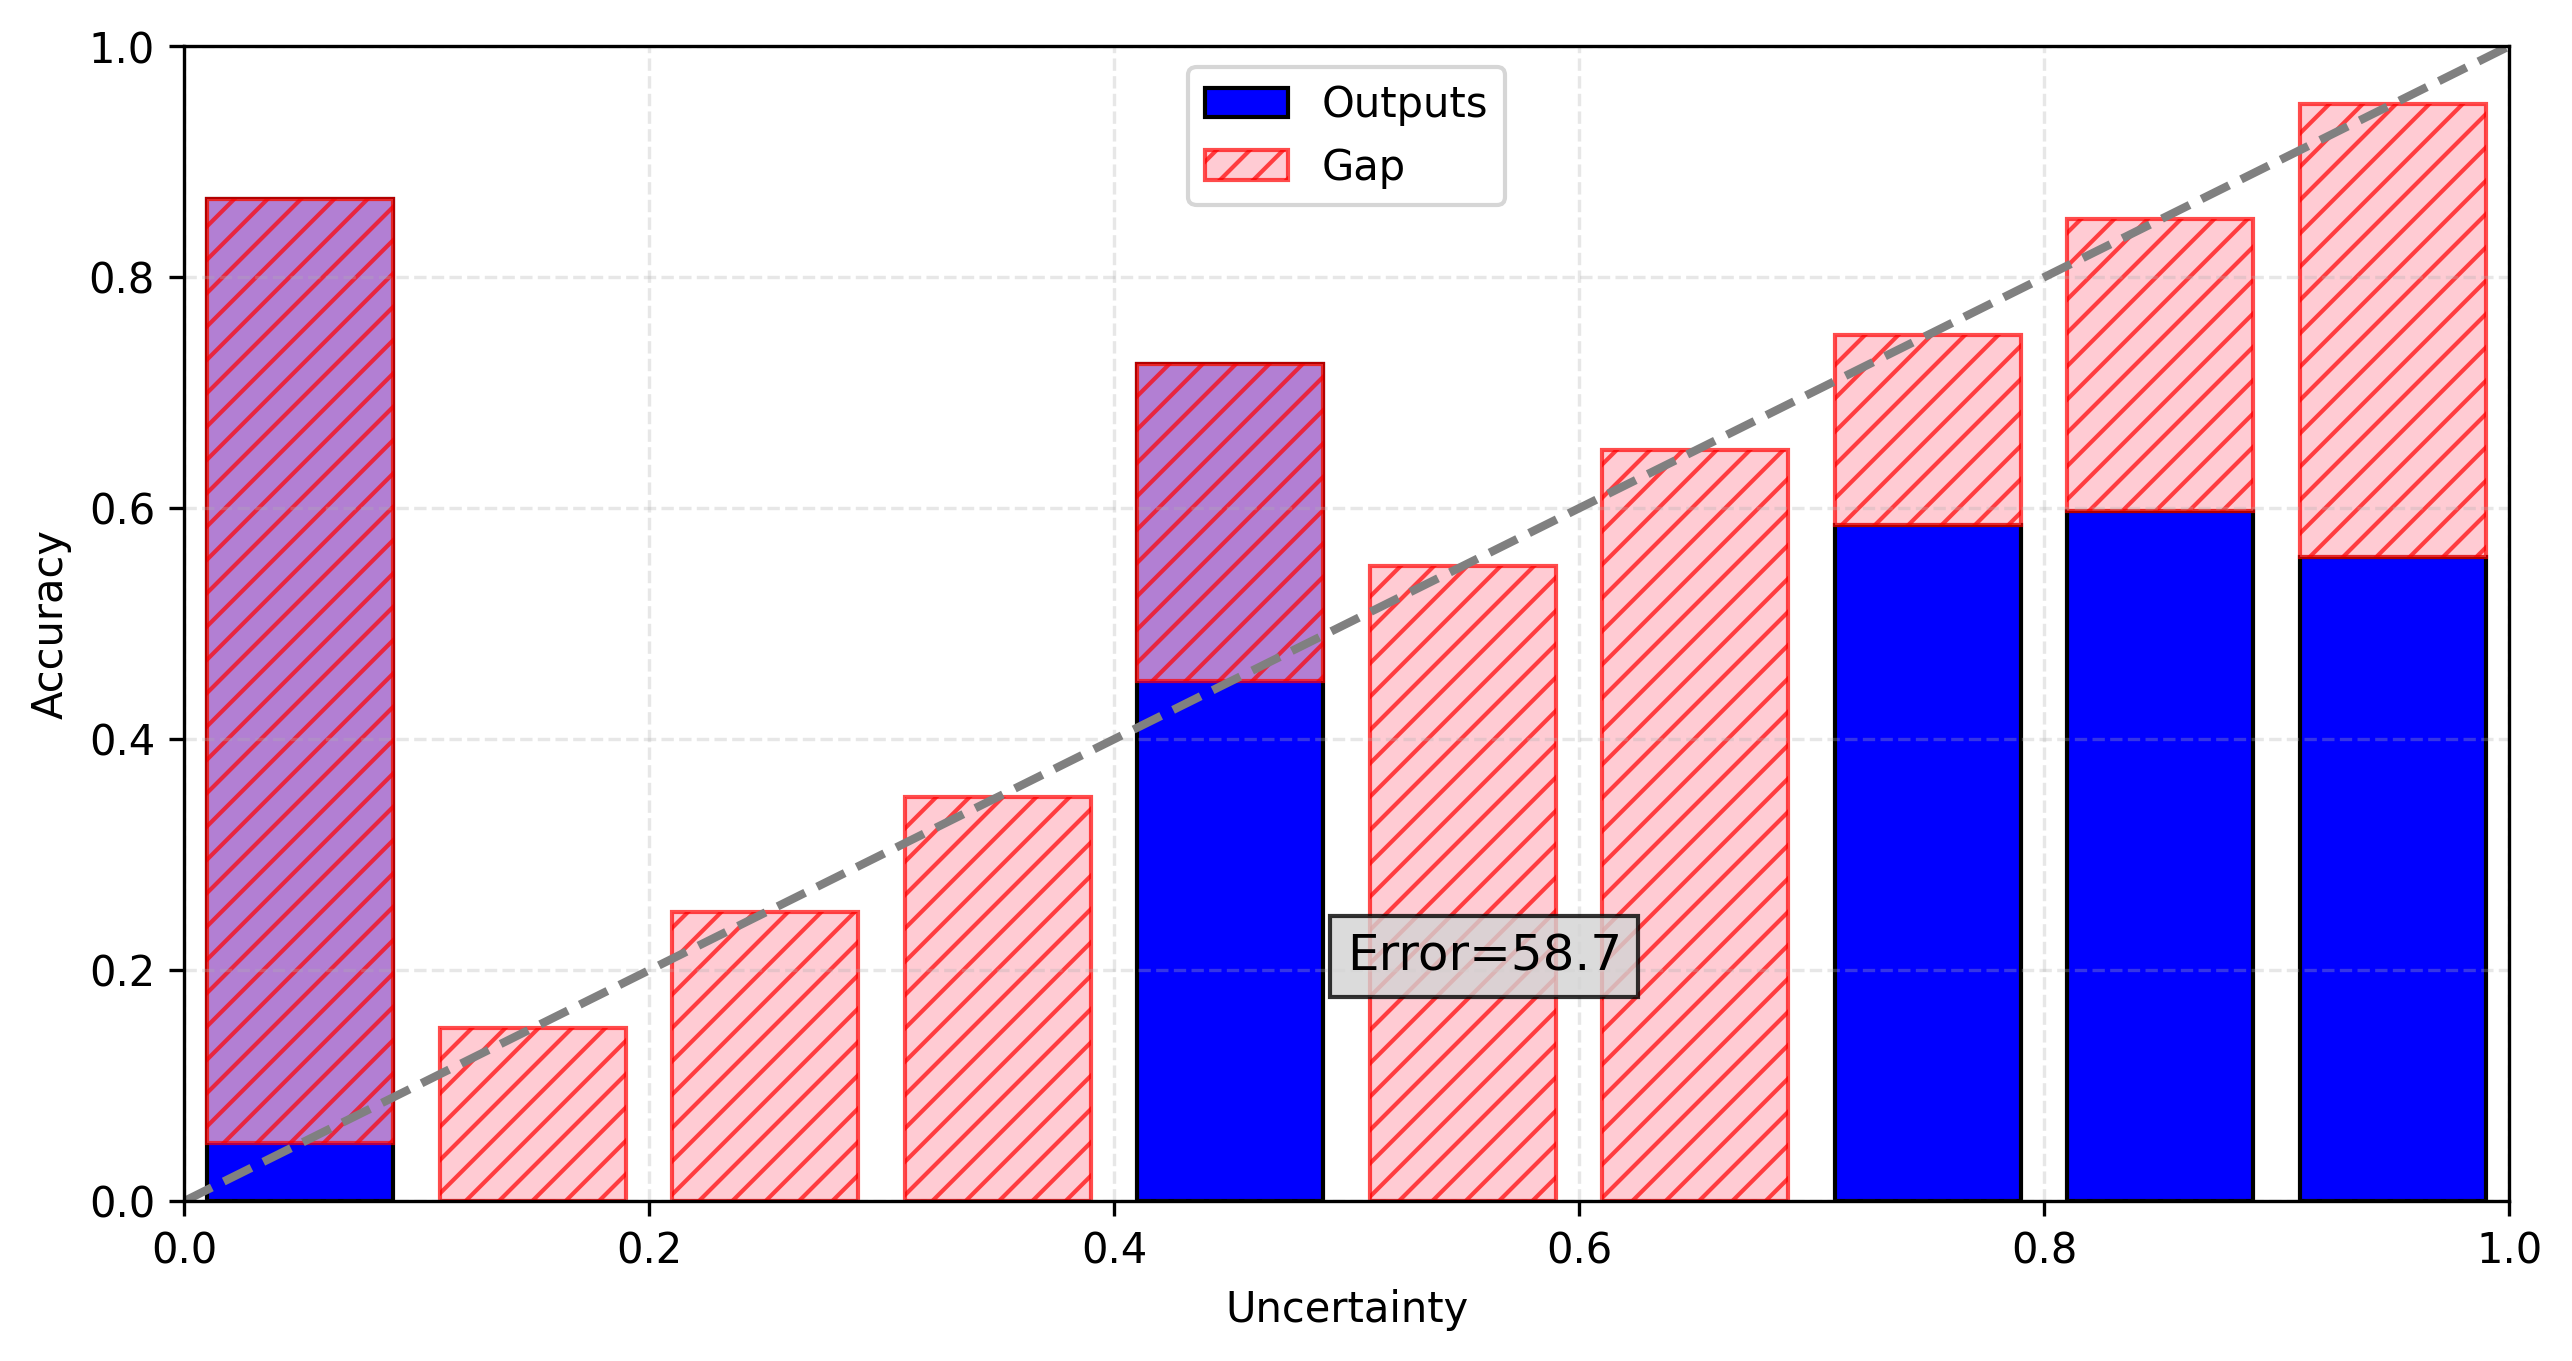
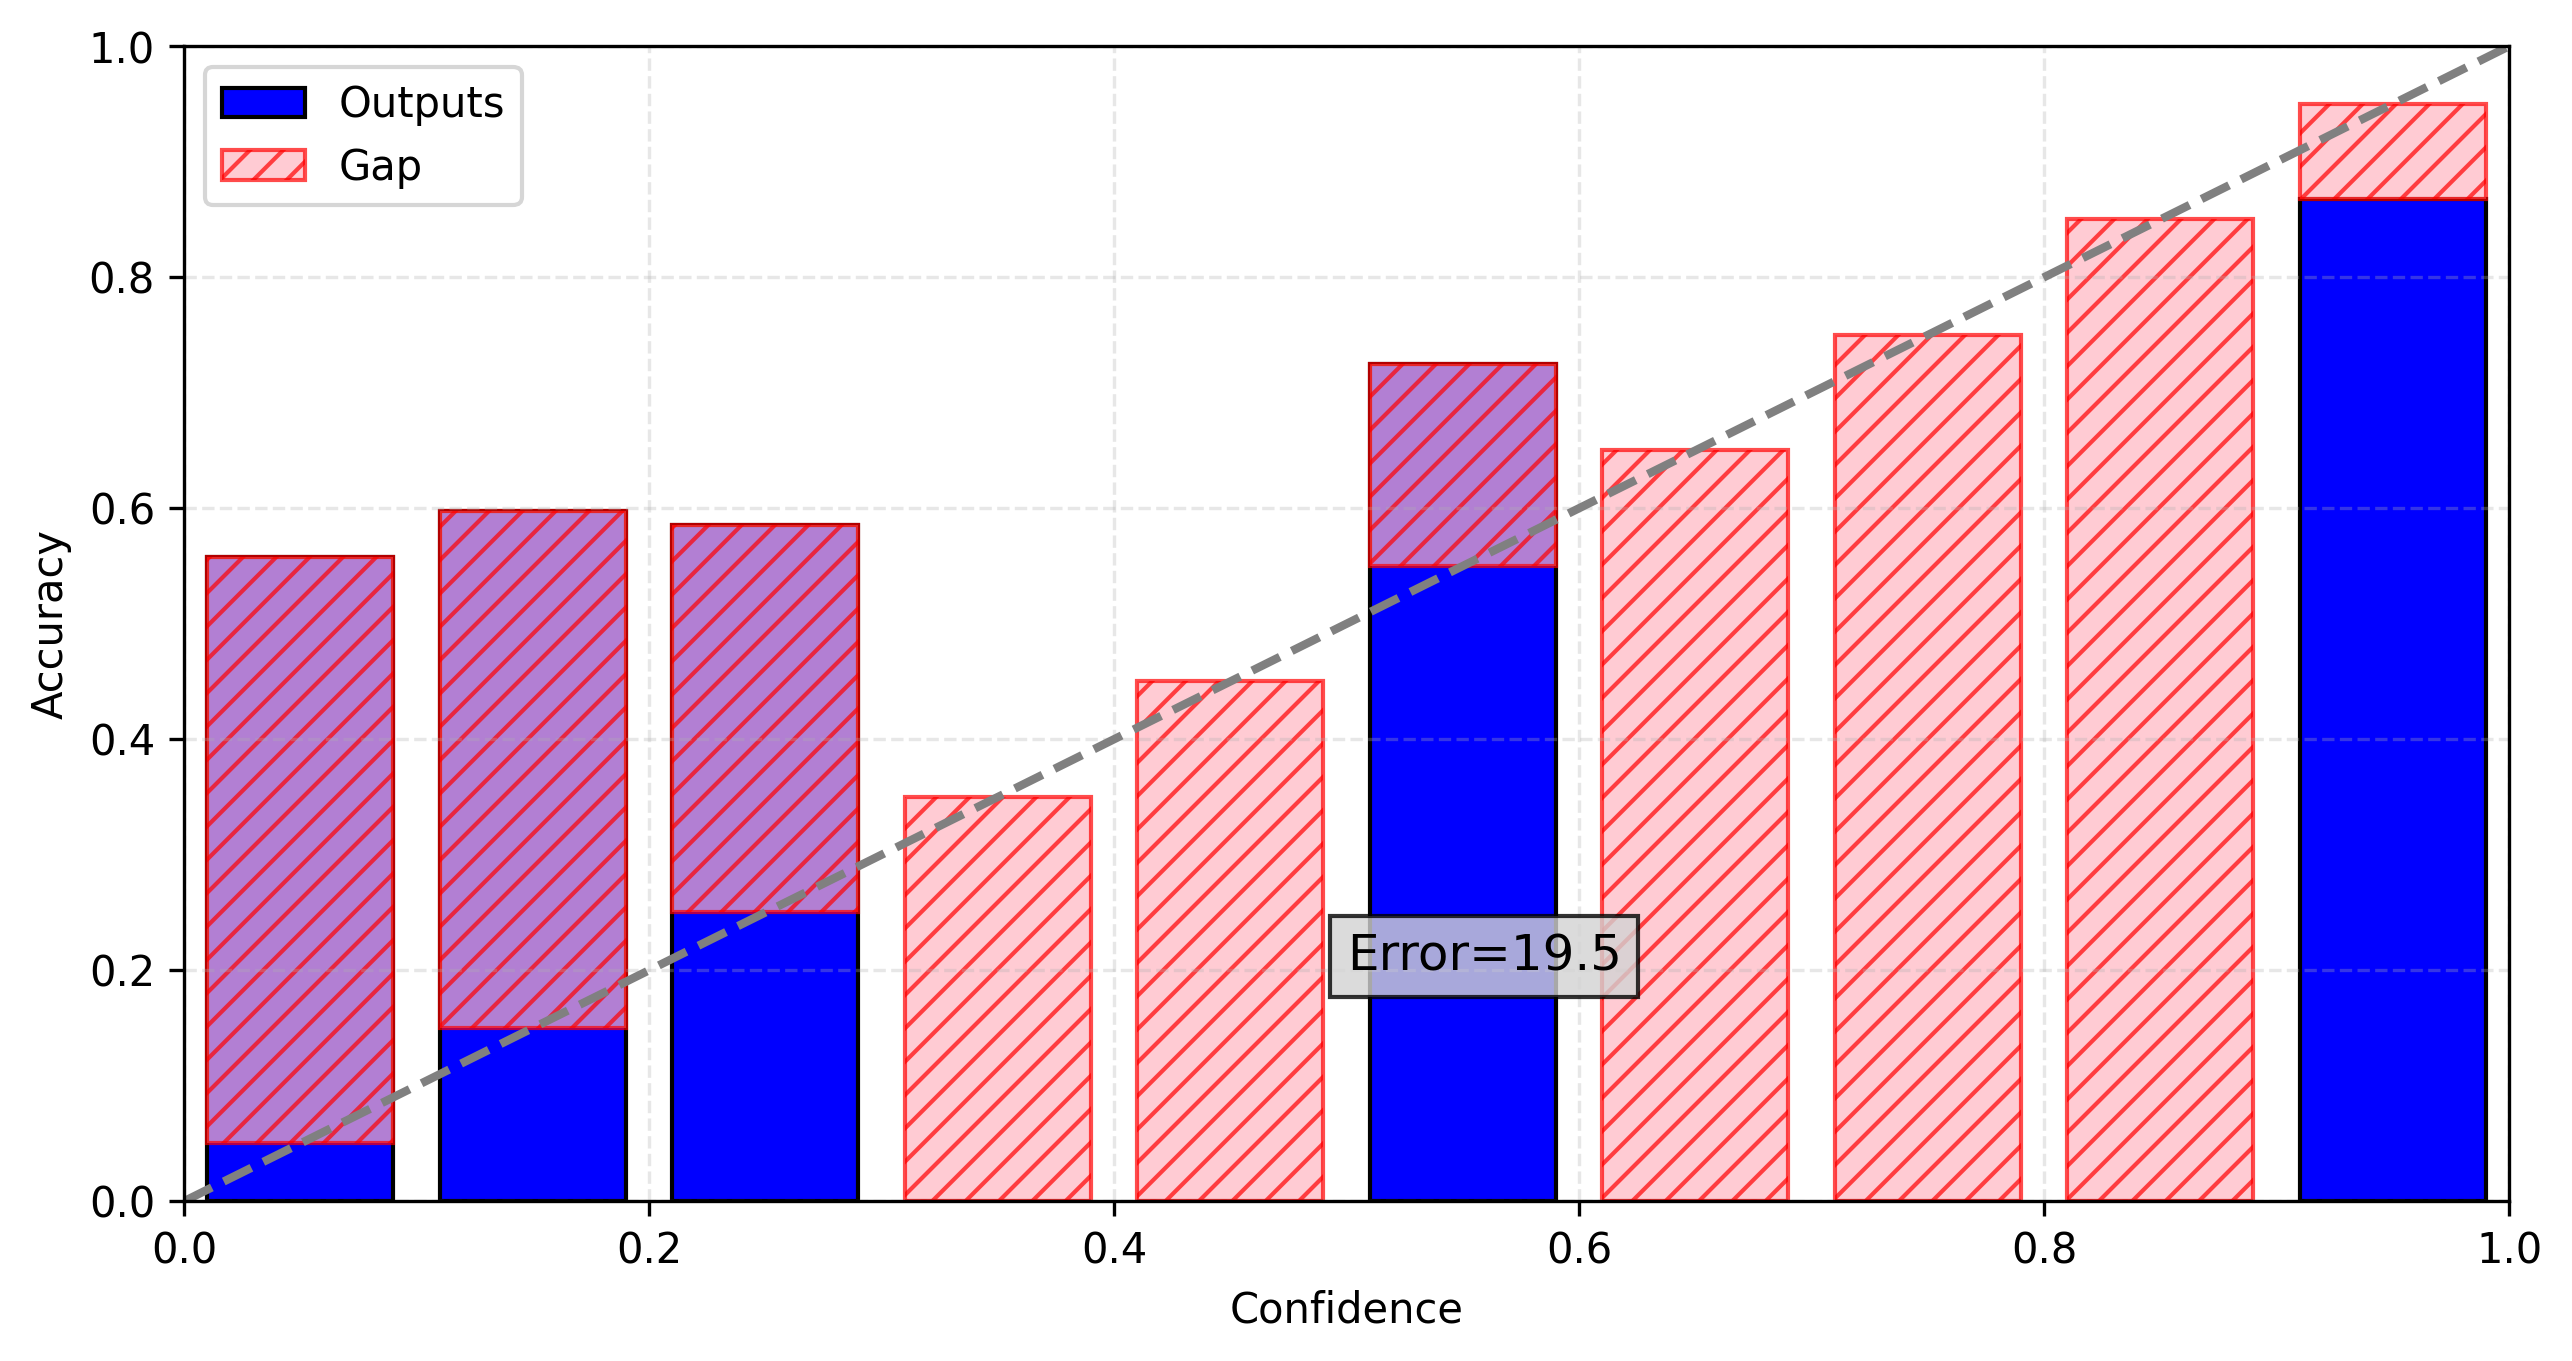
update plot

diff --git a/eval_results/cal_uncertainty.py b/eval_results/cal_uncertainty.py
@@ -50,17 +50,19 @@ def answer_extractor(answer):
     return answer
 
 def create_calibration_plot(uncertainty_scores, accuracies, model_name):
+    confidence_scores = [1 - u for u in uncertainty_scores]
+    
     bin_edges = np.linspace(0, 1, 11)
     bin_centers = (bin_edges[:-1] + bin_edges[1:]) / 2
     
     bin_accuracies = np.zeros(len(bin_edges) - 1)
     bin_counts = np.zeros(len(bin_edges) - 1)
     
-    for uncertainty, accuracy in zip(uncertainty_scores, accuracies):
-        if uncertainty == 1.0:
+    for confidence, accuracy in zip(confidence_scores, accuracies):
+        if confidence == 1.0:
             bin_idx = len(bin_edges) - 2
         else:
-            bin_idx = int(uncertainty * 10)
+            bin_idx = int(confidence * 10)
         
         bin_accuracies[bin_idx] += accuracy
         bin_counts[bin_idx] += 1
@@ -89,7 +91,7 @@ def create_calibration_plot(uncertainty_scores, accuracies, model_name):
     
     ax.text(0.5, 0.2, f"Error={error}", bbox=dict(facecolor='lightgray', alpha=0.8), fontsize=12)
     
-    ax.set_xlabel('Uncertainty')
+    ax.set_xlabel('Confidence')
     ax.set_ylabel('Accuracy')
     ax.set_xlim(0, 1)
     ax.set_ylim(0, 1)
